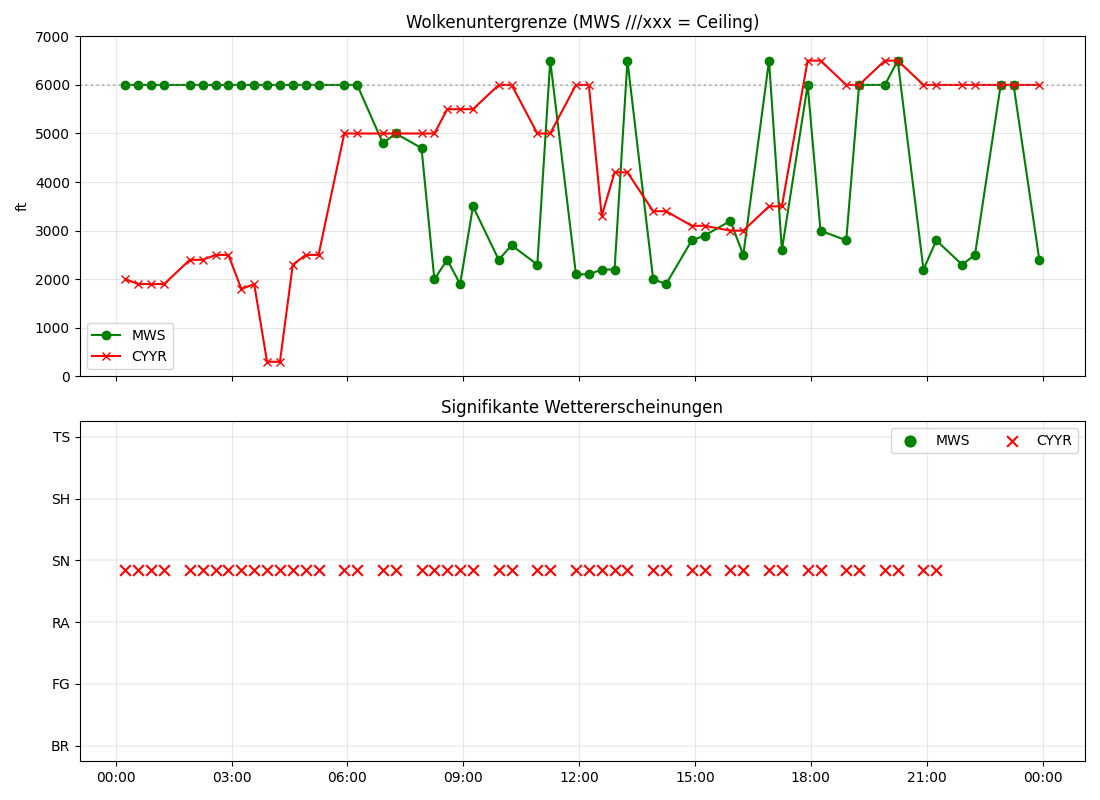
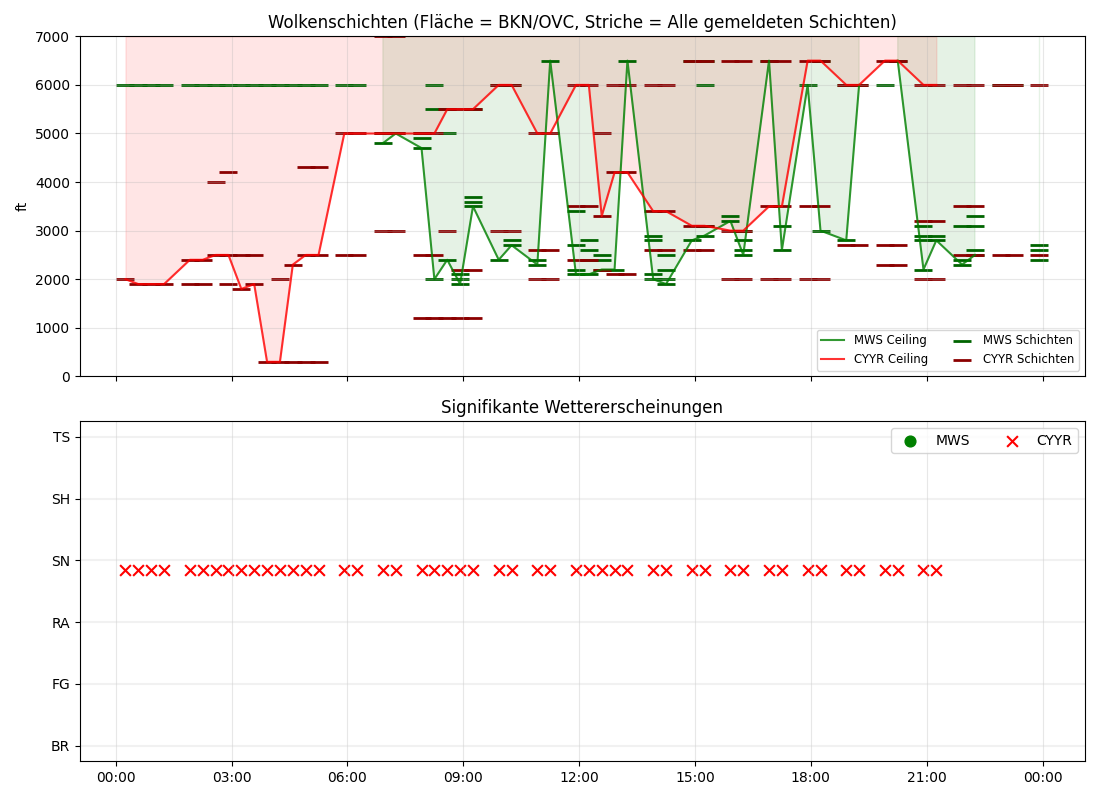
Ceiling in Wolkenplot integriert

diff --git a/MWS_CYYR_Vergleich.py b/MWS_CYYR_Vergleich.py
@@ -1,6 +1,7 @@
 import pandas as pd
 import matplotlib.pyplot as plt
 import matplotlib.dates as mdates
+import numpy as np
 from datetime import datetime, timedelta
 import re
 import sys
@@ -9,7 +10,7 @@ import os
 # --- 1. KONFIGURATION ---
 
 # A) ZENTRALER PFAD
-ARBEITSVERZEICHNIS = '/Users/wetterheidi/Downloads/MWS'
+ARBEITSVERZEICHNIS = '/Users/wetterheidi/Documents/Dienst/GooseBay/MWS'
 
 # B) DATEINAMEN
 DATEI_NAME_A = '260221_MWS.csv'
@@ -151,22 +152,37 @@ def cvt_v(v):
 
 # NEUE FUNKTION FÜR CEILING (///042 Support)
 def get_ceil(w):
-    if pd.isna(w): return None
+    """Ermittelt das Ceiling. Gibt NaN zurück, wenn keines vorhanden ist."""
+    if pd.isna(w): return np.nan
     w_str = str(w)
     
-    # 1. Standard: OVC010, BKN020, VV005
+    # 1. Standard (CYYR): Nur OVC, BKN oder VV sind ein Ceiling!
     m1 = re.search(r'(VV|OVC|BKN)(\d{3})', w_str)
     if m1: return int(m1.group(2)) * 100
     
-    # 2. MWS Spezial: ///042 (Bedeckung unbekannt, Höhe bekannt)
-    # Sucht nach /// gefolgt von 3 Ziffern
+    # 2. MWS (Worst-Case): Wir werten /// als potentielles Ceiling
     m2 = re.search(r'///(\d{3})', w_str)
     if m2: return int(m2.group(1)) * 100
 
-    # 3. Keine Wolken (VFR)
-    if any(x in w_str for x in ['CLR','FEW','SCT','SKC']): return 6000
+    # 3. Wenn nur FEW, SCT oder CLR da sind -> KEIN Ceiling -> Linie abreißt
+    return np.nan
+
+def get_all_clouds(w):
+    """Sucht nach ALLEN Wolkenschichten in einem METAR und gibt eine Liste der Höhen in Fuß zurück."""
+    if pd.isna(w): return []
+    w_str = str(w)
+    layers = []
     
-    return None
+    # Sucht alle Vorkommen von Wolken-Kürzeln gefolgt von 3 Ziffern
+    matches = re.finditer(r'(FEW|SCT|BKN|OVC|VV|///)(\d{3})', w_str)
+    for m in matches:
+        layers.append(int(m.group(2)) * 100)
+    
+    # Wenn keine Wolken gefunden wurden, aber der Himmel als klar gemeldet wird
+    if not layers and any(x in w_str for x in ['CLR','FEW','SCT','SKC']):
+        layers.append(6000) # Unser Dummy-Wert für VFR
+        
+    return layers
 
 def check_wx(w, c): return c in str(w)
 
@@ -205,20 +221,52 @@ plt.tight_layout(); plt.savefig(out_plot1)
 
 print("- Erstelle Grafik 2...")
 fig2, ax2 = plt.subplots(2, 1, figsize=(11, 8), sharex=True, gridspec_kw={'height_ratios':[1,1]})
-ax2[0].plot(df['Timestamp'], df['MWS_Ceil'], 'g-o', label='MWS')
-ax2[0].plot(df['Timestamp'], df['CYYR_Ceil'], 'r-x', label='CYYR')
-ax2[0].set_ylabel('ft'); ax2[0].set_ylim(0, 7000); ax2[0].grid(True, alpha=0.3); ax2[0].legend()
-ax2[0].axhline(6000, c='gray', ls=':', alpha=0.5); ax2[0].set_title('Wolkenuntergrenze (MWS ///xxx = Ceiling)')
 
+# --- WOLKEN PLOT ---
+# Schattierung (wird nur dort gezeichnet, wo ein Ceiling existiert!)
+ax2[0].fill_between(df['Timestamp'], df['MWS_Ceil'], 7000, color='green', alpha=0.1)
+ax2[0].fill_between(df['Timestamp'], df['CYYR_Ceil'], 7000, color='red', alpha=0.1)
+
+# Ceiling Linie (reißt ab bei NaN)
+ax2[0].plot(df['Timestamp'], df['MWS_Ceil'], 'g-', linewidth=1.5, alpha=0.8, label='MWS Ceiling')
+ax2[0].plot(df['Timestamp'], df['CYYR_Ceil'], 'r-', linewidth=1.5, alpha=0.8, label='CYYR Ceiling')
+
+# Alle Schichten als HORIZONTALE STRICHE
+mws_cloud_x, mws_cloud_y = [], []
+cyyr_cloud_x, cyyr_cloud_y = [], []
+
+for idx, row in df.iterrows():
+    ts = row['Timestamp']
+    for hgt in get_all_clouds(row['MWS_Wx']):
+        mws_cloud_x.append(ts); mws_cloud_y.append(hgt)
+    for hgt in get_all_clouds(row['CYYR_Wx']):
+        cyyr_cloud_x.append(ts); cyyr_cloud_y.append(hgt)
+
+ax2[0].scatter(mws_cloud_x, mws_cloud_y, color='darkgreen', marker='_', s=150, lw=2, label='MWS Schichten')
+ax2[0].scatter(cyyr_cloud_x, cyyr_cloud_y, color='darkred', marker='_', s=150, lw=2, label='CYYR Schichten')
+
+ax2[0].set_ylabel('ft')
+ax2[0].set_ylim(0, 7000)
+ax2[0].grid(True, alpha=0.3)
+ax2[0].legend(loc='lower right', fontsize='small', ncol=2)
+ax2[0].set_title('Wolkenschichten (Fläche = BKN/OVC, Striche = Alle gemeldeten Schichten)')
+
+# --- WETTER MATRIX PLOT (Bleibt gleich) ---
 for i, code in enumerate(PLOT_TYPES):
     ax2[1].axhline(i, c='lightgray', alpha=0.3)
     t_m = df[df['MWS_Wx'].apply(lambda w: check_wx(w, code))]['Timestamp']
     t_c = df[df['CYYR_Wx'].apply(lambda w: check_wx(w, code))]['Timestamp']
     ax2[1].scatter(t_m, [i+0.15]*len(t_m), c='g', s=60, label='MWS' if i==0 else "")
     ax2[1].scatter(t_c, [i-0.15]*len(t_c), c='r', marker='x', s=60, label='CYYR' if i==0 else "")
-ax2[1].set_yticks(range(len(PLOT_TYPES))); ax2[1].set_yticklabels(PLOT_TYPES)
-ax2[1].grid(True, axis='x', alpha=0.3); ax2[1].legend(loc='upper right', ncol=2)
-ax2[1].xaxis.set_major_formatter(mdates.DateFormatter('%H:%M')); ax2[1].set_title('Signifikante Wettererscheinungen')
-plt.tight_layout(); plt.savefig(out_plot2)
+
+ax2[1].set_yticks(range(len(PLOT_TYPES)))
+ax2[1].set_yticklabels(PLOT_TYPES)
+ax2[1].grid(True, axis='x', alpha=0.3)
+ax2[1].legend(loc='upper right', ncol=2)
+ax2[1].xaxis.set_major_formatter(mdates.DateFormatter('%H:%M'))
+ax2[1].set_title('Signifikante Wettererscheinungen')
+
+plt.tight_layout()
+plt.savefig(out_plot2)
 
 print("FERTIG! Alle Dateien im Arbeitsverzeichnis gespeichert.")
